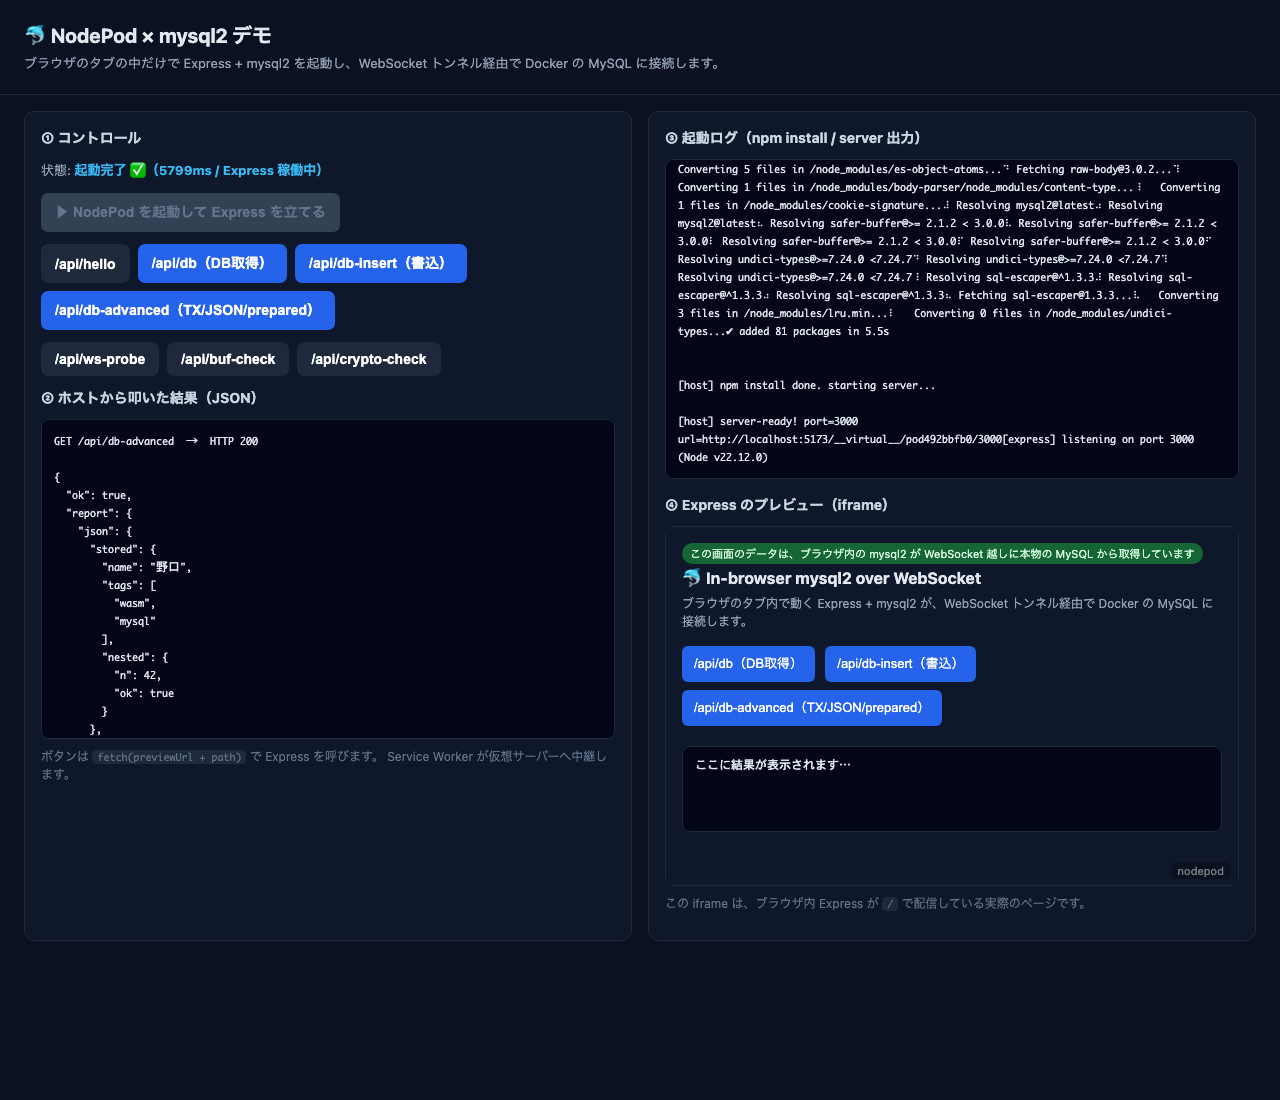
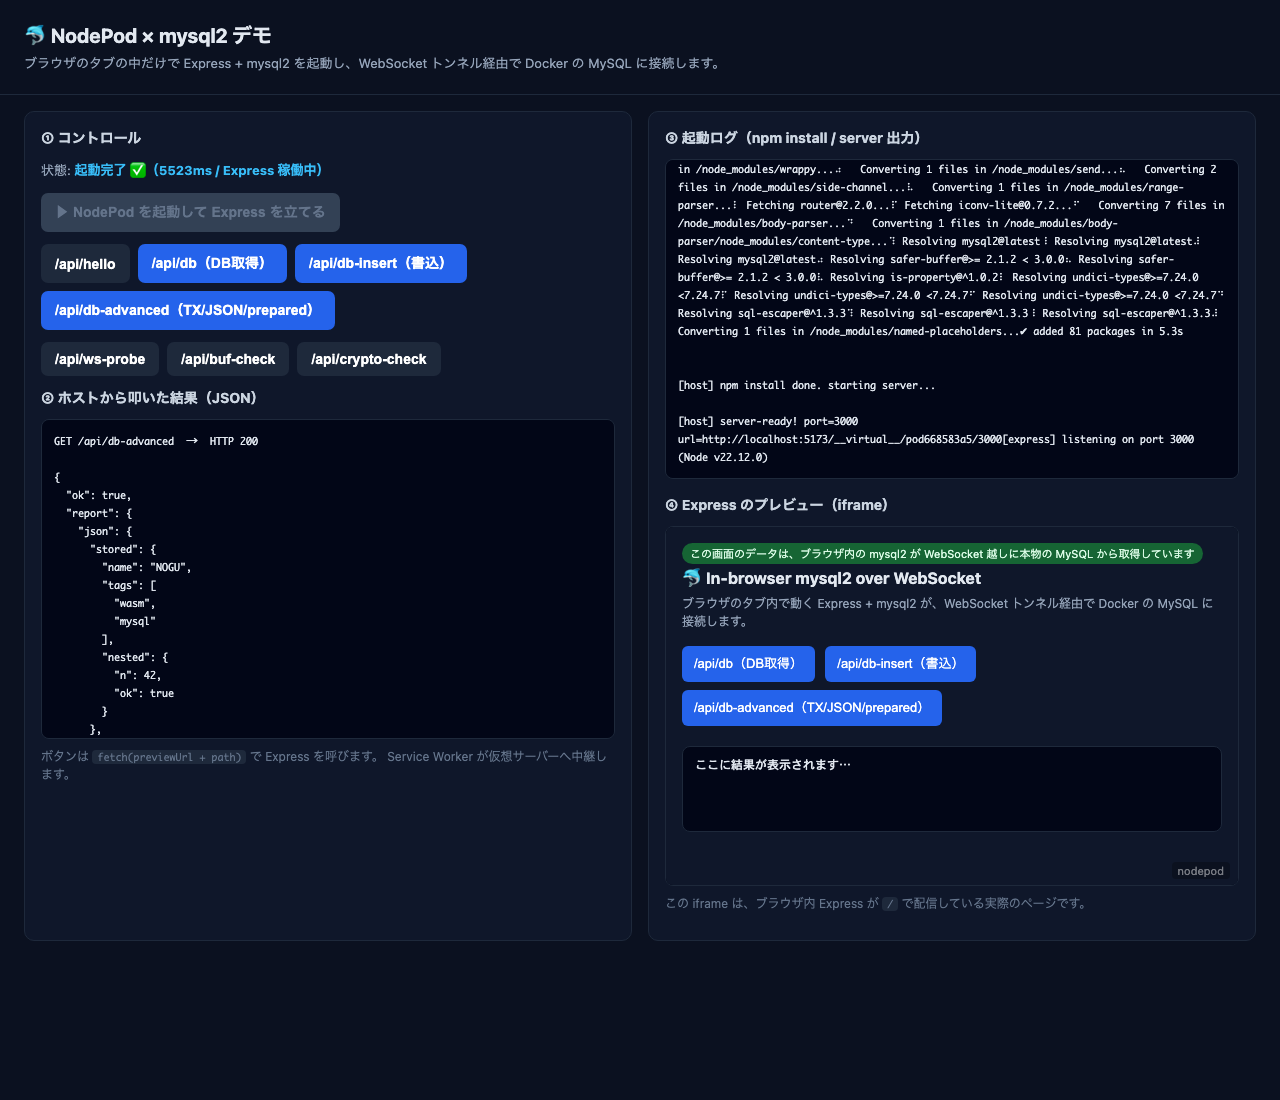
chore: サンプルデータの実名をマスク (野口 → NOGU)

Changed region(s): [[0.5312, 0.1545, 0.9688, 0.3091], [0.7188, 0.3709, 0.75, 0.4018], [0.125, 0.4945, 0.1562, 0.5255]]

diff --git a/src/vm-project.ts b/src/vm-project.ts
@@ -426,7 +426,7 @@ app.get('/api/db-advanced', async (req, res) => {
     // --- JSON 型カラム ---
     await conn.query('CREATE TABLE IF NOT EXISTS profiles (id INT AUTO_INCREMENT PRIMARY KEY, data JSON)');
     await conn.query('DELETE FROM profiles');
-    const payload = { name: '野口', tags: ['wasm', 'mysql'], nested: { ok: true, n: 42 } };
+    const payload = { name: 'NOGU', tags: ['wasm', 'mysql'], nested: { ok: true, n: 42 } };
     // prepared statement(execute) + JSON 値のバインド
     await conn.execute('INSERT INTO profiles (data) VALUES (?)', [JSON.stringify(payload)]);
     const [jrows] = await conn.execute(
